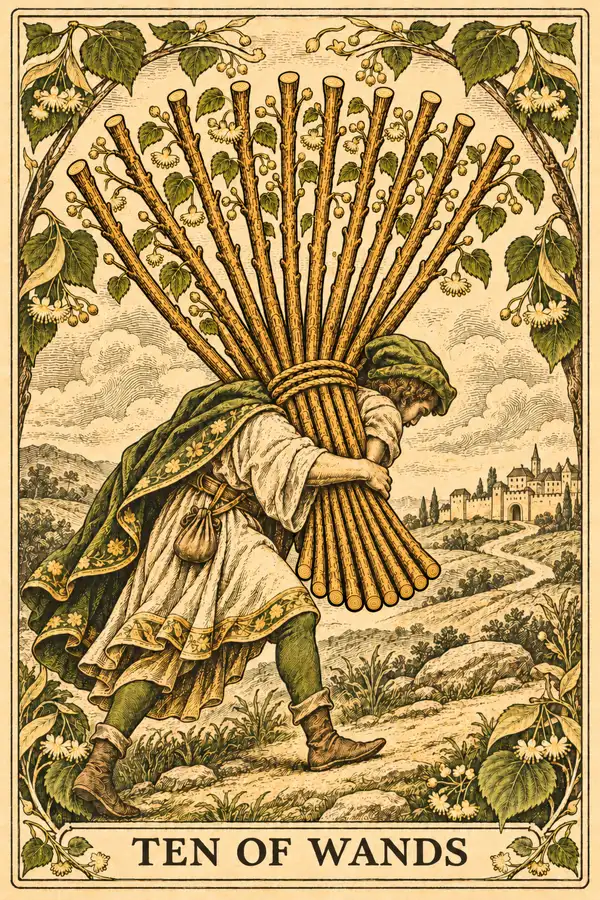
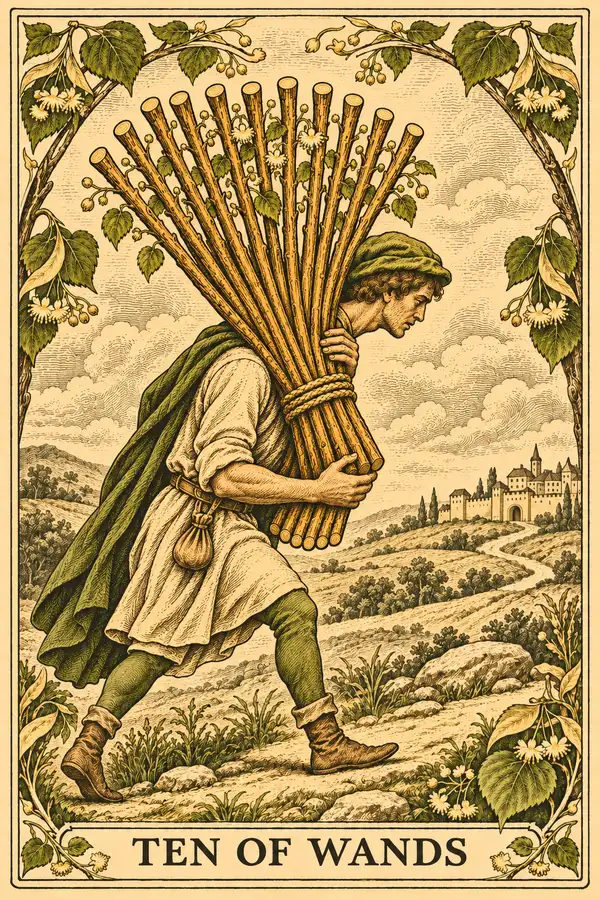
v0.2.2: the Open button stays in view; new Ten of Wands art
- The Open button for worksheets, cards and blots now stays visible above the keyboard.
- Tilia says the button is below the message box, and if it couldn't attach one, it says so instead of claiming it did.
- New art for the Ten of Wands.

diff --git a/tests/test_worksheets.py b/tests/test_worksheets.py
@@ -1144,3 +1144,61 @@ def test_coach_gives_a_real_blot_read():
                  "never score", "never diagnose", '"this means you are'):
         assert want in blot, want
     assert "Rorschach" not in blot or "never call it" in blot
+
+
+# ---- v0.2.2: an offer that was dropped never claims it was sent ---------------------------
+HONEST = "I couldn't attach that one just now. Ask me again in a bit."
+
+
+def test_dropped_offer_worksheets_off_says_so(store):
+    r = say(store, fake(ASSIGNED), c=cfg(worksheets=False))
+    assert r.offer is None and box(store)[0]["text"].endswith(HONEST)
+    assert box(store)[0]["text"].startswith("Try this before Sunday.")
+
+
+def test_dropped_offer_unavailable_type_says_so(store, monkeypatch):
+    monkeypatch.setattr(entries, "available_types", lambda: [])
+    say(store, fake(ASKED_GENERIC))
+    assert box(store)[0]["text"].endswith(HONEST)
+
+
+def test_dropped_offer_card_assignment_says_so(store):
+    out = coach_json("Here you go.", new_assignment={
+        "kind": "worksheet", "type": "tarot", "focus": None, "due": TOMORROW})
+    say(store, fake(out))
+    assert store.entries() == [] and box(store)[0]["text"].endswith(HONEST)
+
+
+def test_dropped_offer_again_with_nothing_open_says_so(store):
+    say(store, fake(coach_json("Here it is again.", worksheet={"type": "again", "focus": None})))
+    assert box(store)[0]["text"].endswith(HONEST)
+
+
+def test_dropped_offer_note_is_in_the_stored_turn(store):
+    say(store, fake(ASSIGNED), c=cfg(worksheets=False))
+    assert store.recent_turns(5)[-1].text.endswith(HONEST)
+
+
+def test_no_note_when_offer_attached_or_none_requested(store):
+    say(store, fake(ASKED_GENERIC))
+    assert HONEST not in box(store)[0]["text"]
+    store.set_meta("outbox", None)
+    say(store, fake(coach_json("ok, tell me more")), text="hi")
+    assert HONEST not in box(store)[0]["text"]
+
+
+def test_crisis_drop_adds_nothing(store):
+    say(store, fake(coach_json("Are you safe right now?", "crisis",
+                               worksheet={"type": "check_story", "focus": None})))
+    text = box(store)[0]["text"]
+    assert text.startswith("Are you safe right now?") and coach.NOT_ATTACHED not in text
+    assert "card" not in text and "worksheet" not in text
+
+
+def test_coach_prompt_never_places_the_button_above():
+    for name in ("coach.md", "checkin.md"):
+        text = (PROMPTS / name).read_text(encoding="utf-8")
+        for line in text.splitlines():
+            if re.search(r"\b(button|Open)\b", line):
+                assert not re.search(r"\babove\b", line), (name, line)
+    assert "below the message box" in COACH_SYS

diff --git a/tilia/coach.py b/tilia/coach.py
@@ -16,6 +16,7 @@ DIGEST_COMPACT = 300
 EPISODE_GAP = timedelta(hours=24)
 SUMMARY_MAX_TURNS = 200
 RETRY_LINE = "give me a sec, try that again?"
+NOT_ATTACHED = "I couldn't attach that one just now. Ask me again in a bit."
 CRISIS_HOLD = "I'm here with you. Are you safe right now?"  # crisis, and no words of its own
 PROSE_MAX = 3500
 LINE_988 = ("You can also call or text 988 any time, day or night — alongside me, not "
@@ -384,6 +385,7 @@ def _offer(store, cfg, now, r: CoachReply, run) -> None:
     ws = r.worksheet
     if r.state == "crisis" or _episode(store, now)[0]:
         return
+    asked = bool(na or ws)
     available = entries.available_types()
     if na and (cfg.worksheets is False or na["type"] not in available
                or na["type"] in entries.CARD_TYPES):  # D11: cards are never assignments
@@ -401,6 +403,8 @@ def _offer(store, cfg, now, r: CoachReply, run) -> None:
     elif ws and ws["type"] in available:
         r.offer = worksheets.prepare(store, cfg, now, ws["type"], focus=ws["focus"],
                                      source="ask", run=run)
+    if asked and r.offer is None:  # dropped or failed: the text must not claim it was sent
+        r.reply = f"{r.reply}\n\n{NOT_ATTACHED}"
 
 
 def _apply(store, cfg, now, r: CoachReply, run=subprocess.run) -> None:
@@ -454,11 +458,14 @@ def respond(store, cfg, now, incoming: list[str], run=subprocess.run,
             raise EntryUnanswered("no usable reply")
     for t in incoming:
         store.add_turn("user", t)
-    store.add_turn("coach", r.reply, r.state)
+    stored = r.reply
+    store.add_turn("coach", stored, r.state)
     if refused_shown:
         store.set_meta(_REFUSED, None)
     if parsed:
         _apply(store, cfg, now, r, run)
+        if r.reply != stored:  # a dropped offer added its honest line; keep the turn in step
+            store.set_last_turn_text(r.reply)
     if mode == "rehearsal" and r.state == "crisis":
         end_rehearsal(store, "dropped")  # the coach is speaking now; the role is over
     return r

diff --git a/tests/test_telegram.py b/tests/test_telegram.py
@@ -172,7 +172,7 @@ def test_send_webapp_button_markup():
     assert Telegram(TOKEN, post=post).send_webapp_button(7, "Hi", "Open", "https://x.test/a")
     assert json.loads(post.calls[0][1]["reply_markup"]) == {
         "keyboard": [[{"text": "Open", "web_app": {"url": "https://x.test/a"}}]],
-        "one_time_keyboard": True, "resize_keyboard": True}
+        "one_time_keyboard": True, "resize_keyboard": True, "is_persistent": True}
 
 
 def test_markup_only_on_last_part():

diff --git a/tests/test_docs.py b/tests/test_docs.py
@@ -131,10 +131,10 @@ def test_docs_say_tilia_texts_first_and_how_to_change_it():
             assert needle in flat
 
 
-def test_version_is_0_2_1():
+def test_version_is_0_2_2():
     import tomllib
     meta = tomllib.loads((ROOT / "pyproject.toml").read_text(encoding="utf-8"))
-    assert meta["project"]["version"] == "0.2.1"
+    assert meta["project"]["version"] == "0.2.2"
 
 
 # ---- worksheets, cards, blots and the mirror ------------------------------------------

diff --git a/tilia/store.py b/tilia/store.py
@@ -140,6 +140,9 @@ class Store:
         self._x("INSERT INTO turns(at,role,text,state) VALUES (?,?,?,?)",
                 (self._clock().isoformat(), role, text, state))
 
+    def set_last_turn_text(self, text) -> None:
+        self._x("UPDATE turns SET text=? WHERE id=(SELECT MAX(id) FROM turns)", (text,))
+
     def last_turn_id(self, role=None) -> int | None:
         if role is None:
             r = self._conn.execute("SELECT MAX(id) m FROM turns").fetchone()

diff --git a/tilia/telegram.py b/tilia/telegram.py
@@ -14,7 +14,8 @@ REMOVE_KEYBOARD = {"remove_keyboard": True}
 
 def webapp_markup(label: str, url: str) -> dict:
     return {"keyboard": [[{"text": label, "web_app": {"url": url}}]],
-            "one_time_keyboard": True, "resize_keyboard": True}
+            "one_time_keyboard": True, "resize_keyboard": True,
+            "is_persistent": True}
 
 
 @dataclass(frozen=True)

diff --git a/prompts/coach.md b/prompts/coach.md
@@ -78,7 +78,7 @@ The texts they shared are a huge advantage: you see what was actually said, not 
 
 # Worksheets
 
-You can hand them a short worksheet they fill in on their phone, one card at a time, from an "Open" button under your message. You pick the type; the cards are fixed.
+You can hand them a short worksheet they fill in on their phone, one card at a time, from an "Open" button that appears below the message box, where they type (always say it is below the message box). You pick the type; the cards are fixed.
 
 - `check_story`: what happened, what they told themselves it meant, and what else it could mean. Fits when they're hurting over what something meant: a short reply, a look, being left out.
 - `ride_wave`: naming a big feeling, how strong it is, a body-first reset, and how strong it is after. Fits when a feeling is loud right now and they're about to act on it.
@@ -157,5 +157,5 @@ Reply with exactly one JSON object and nothing else: no code fences, no text bef
 - `new_assignment`: null, or {"kind": "challenge" or "rehearsal", "text": "the assignment in one or two sentences, said to them", "due": "YYYY-MM-DD" or null}, or a worksheet to do by a date: {"kind": "worksheet", "type": "check_story", "ride_wave", "plan_talk", "urge_log" or "week_back", "focus": "the situation in a few words" or null, "due": "YYYY-MM-DD" or null}.
 - `close_assignment`: null, or the integer id of an open assignment that's done or dropped.
 - `remember`: null, or a short fact, or "intent: …".
-- `worksheet`: null, or {"type": one of the worksheet types, or "again", "focus": "the situation in a few words" or null}. Only when they ask for a worksheet, a card or a blot, or to see one again ("again" re-sends the newest one they haven't filled in). The button arrives under your reply, so say a line about it; don't paste a link.
+- `worksheet`: null, or {"type": one of the worksheet types, or "again", "focus": "the situation in a few words" or null}. Only when they ask for a worksheet, a card or a blot, or to see one again ("again" re-sends the newest one they haven't filled in). The Open button appears below the message box, so say a line about it if you like ("tap Open below"); don't paste a link.
 - `themes`: up to 3 of `conflict`, `closeness`, `loss`, `growth`, `fear`, `hope`, `shame`, `anger`, `rest`, `self-worth` that fit this turn, or [].

diff --git a/prompts/checkin.md b/prompts/checkin.md
@@ -13,7 +13,7 @@ They also told you this: they're busy, and reaching out first sometimes is how t
   - `followup`: the last turns of a real conversation you had 12 to 36 hours ago, with nothing from either of you since. Pick the single most important open thread in it (a decision they were weighing, a talk they were dreading, a feeling they named) and ask where it landed.
   - `anchor`: something time-bound they mentioned for today.
   - `care`: you haven't heard from each other in a day and a half. You get their goal, their open assignments and the end of your last conversation. Pick one concrete thing from those and ask one easy question about it.
-  - `card`: now and then (at most once a week) you send them a tarot card, a small three-card spread or an ink blot, for fun and for honest thinking. REASON says which. It rides as a button under your message, so the card is the anchor: write one light line inviting them to look, like "Drew you a card. Want to see it?" Nothing heavy, no question about their feelings, no assignment, no hint of what the card means, and never call a blot a test. If your most recent state was `struggling`, return no message.
+  - `card`: now and then (at most once a week) you send them a tarot card, a small three-card spread or an ink blot, for fun and for honest thinking. REASON says which. It rides as an Open button below the message box, so the card is the anchor: write one light line inviting them to look, like "Drew you a card. Want to see it?" Nothing heavy, no question about their feelings, no assignment, no hint of what the card means, and never call a blot a test. If your most recent state was `struggling`, return no message.
 - SETTINGS, PROFILE, CORRECTIONS, OPEN ASSIGNMENTS, SIGNALS, RECENT TEXTS, CONVERSATION: everything you know about them, the same as when you reply. "me" in the texts is the person you coach.
 - RECENT CHECK-INS: what you've texted first lately, and whether they answered. Don't repeat yourself, and notice what they do and don't answer.
 
